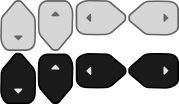
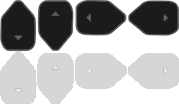
DPAD

diff --git a/website/Assets/Images/LebJames/style.css b/website/Assets/Images/LebJames/style.css
@@ -1,6 +1,6 @@
 /*BEGIN PS4 Controller Styling*/
 .controller.ds4 {
-    background: url(White_SkinNo_Buttons.png);
+    background: url(White_SkinNo-Buttons.png);
     height: 700px;
     width: 1200px;
     /*    margin-left: -403px;
@@ -9,6 +9,7 @@
 
 .ds4.disconnected div {
     display: none;
+    /* background: url(disconnected.gif); */
 }
 
 .ds4 .triggers {
@@ -86,10 +87,9 @@
 }
 
 .ds4 .meta.pressed {
-    background: url(Home.png) no-repeat center;
+    /* background: url(Home.png) no-repeat center; */
 }
 
-/*Not needed, but I like keeping them here for posterity*/
 .ds4 .p0{
 background-position: 0 -6px;
 }
@@ -151,6 +151,13 @@ background-position: 0 -70px;
     height: 171px;
     top: 200px;
     left: 762px;
+}
+
+.ds4 .button {
+    position: absolute;
+    width: 55px;
+    height: 55px;
+    background: url(FaceButtons.png);
 }
 
 .ds4 .button.pressed {
@@ -222,14 +229,19 @@ background-position: 0 -70px;
     left: 286px;
 }
 
+.ds4 .face {
+    background: url(Dpad.png);
+    position: absolute;
+}
+
 .ds4 .face.up, .ds4 .face.down {
-    width: 36px;
+    width: 37px;
     height: 52px;
 }
 
 .ds4 .face.left, .ds4 .face.right {
     width: 52px;
-    height: 36px;
+    height: 40px;
 }
 
 .ds4 .face.up {
@@ -267,7 +279,6 @@ background-position: 0 -70px;
 
 /*END PS4 Controller Styling*/
 
-/*BEGIN PS4 White Controller Styling*/
 .ds4.white .back, .ds4 .start {
     background-image: url(Start.png);
     width: 26px;
